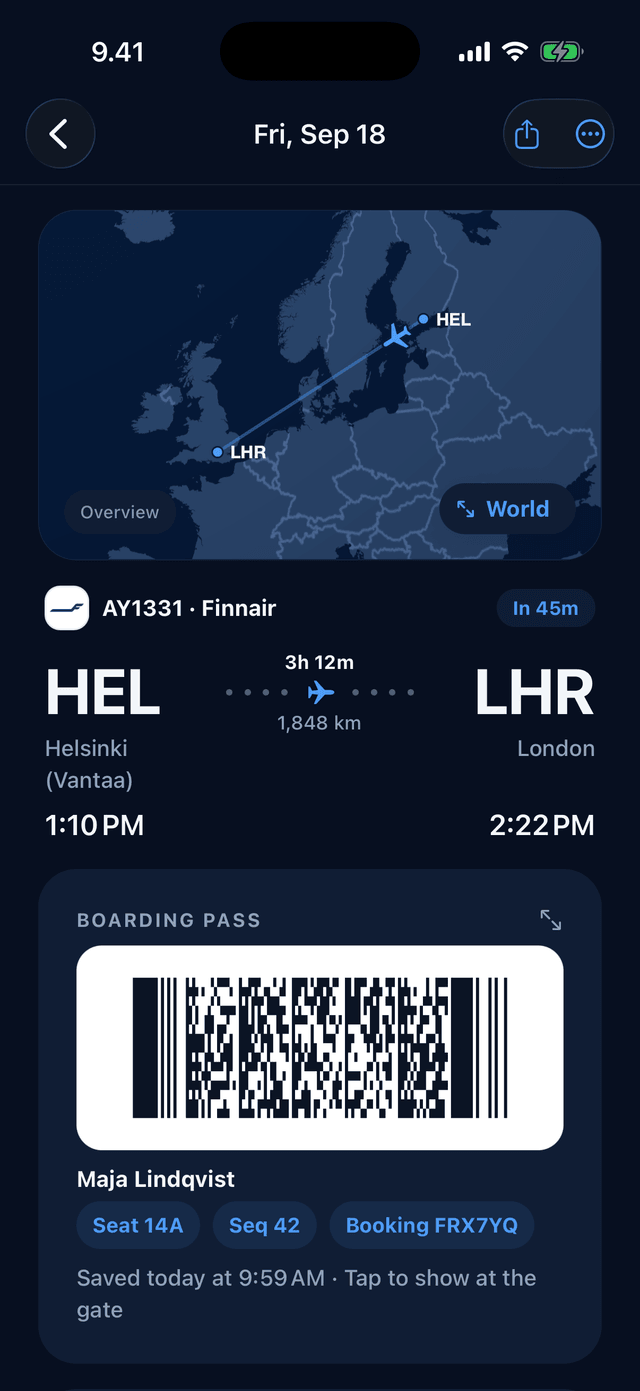
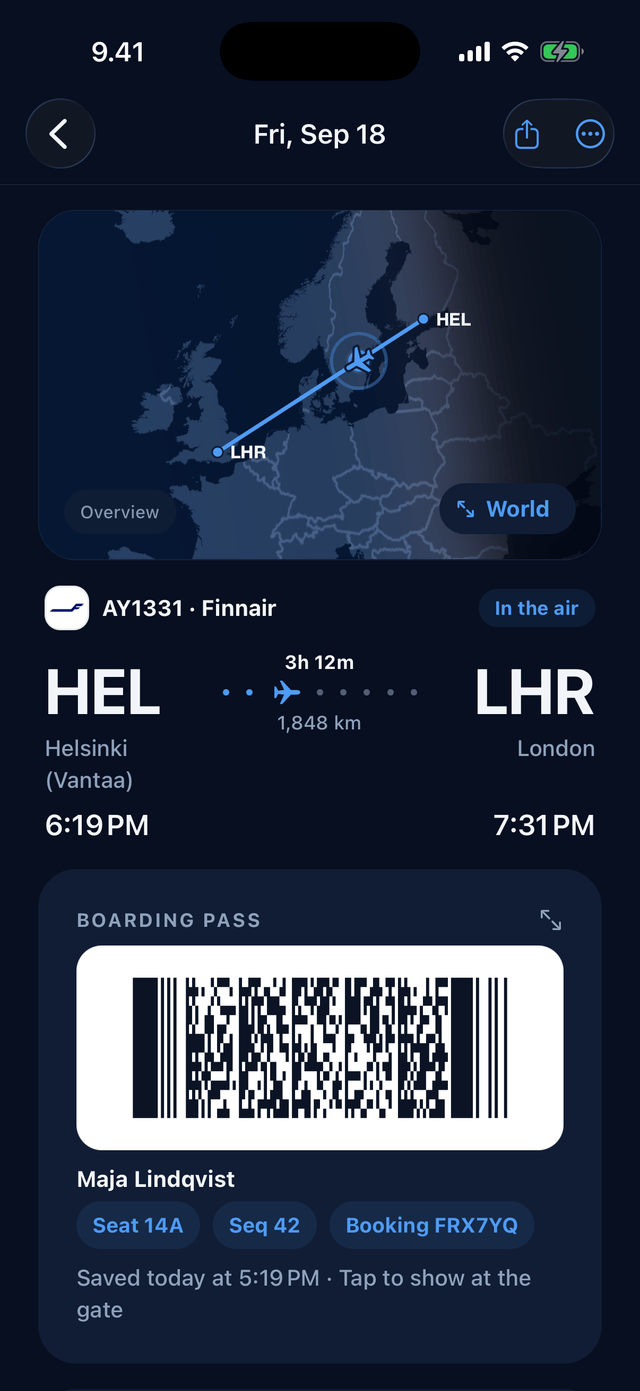
Website: the trip page and World captures show the flight in the air
Fresh Release-build captures with the demo flight an hour into HEL→LHR:
the plane mid-arc by dead reckoning with the radar beacon on it, "In the
air" and the progress contrail on the trip page; the plane, the beacon and
the sun's terminator on the World tab. Light and dark. The recipe is now a
script (scripts/capture-landing-shots.mjs) and is noted in docs/website.md.

diff --git a/docs/website.md b/docs/website.md
@@ -46,6 +46,13 @@ carry the app's tab bar and mount World/People/Claims behind it.
   `xcrun simctl io <udid> screenshot`. Downsize with sharp (`resize({ width: 640 })`,
   `png({ palette: true })`). Reshoot after visible UI changes; the store panels in
   `store-assets/raw` are a separate set.
+  `travel-day.png` and `world.png` show the demo flight **in the air** (the plane
+  mid-arc by dead reckoning, the radar beacon on it, "In the air", the progress
+  contrail, the sun's terminator): `node scripts/capture-landing-shots.mjs <udid>`
+  seeds, moves `demo-upcoming` to departed 1 h ago / landing in 2 h 12 m, sets the
+  status bar and shoots both screens in both appearances from the installed build —
+  which must be a Release build of the current code (`npx expo run:ios
+  --configuration Release --no-bundler --device <udid>`).
 - The People capture is the **dev** deployment with synthetic people, never production
   accounts: `devTools:seedDemoCircle` (internal; `npx convex run devTools:seedDemoCircle
   '<json>'` against dev) upserts profile rows (name + Unsplash portrait — `images.unsplash.com`
